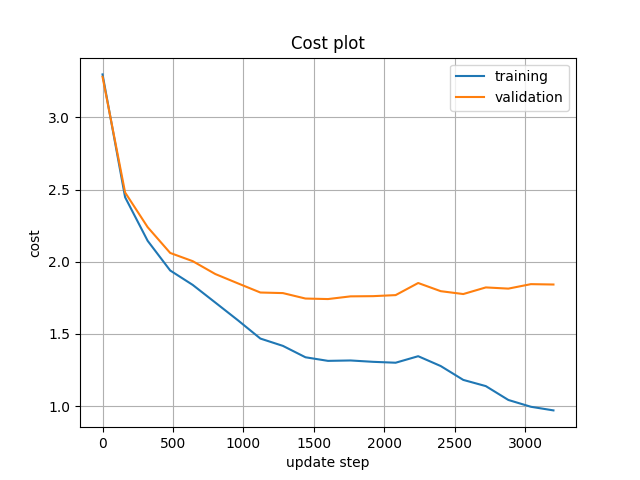
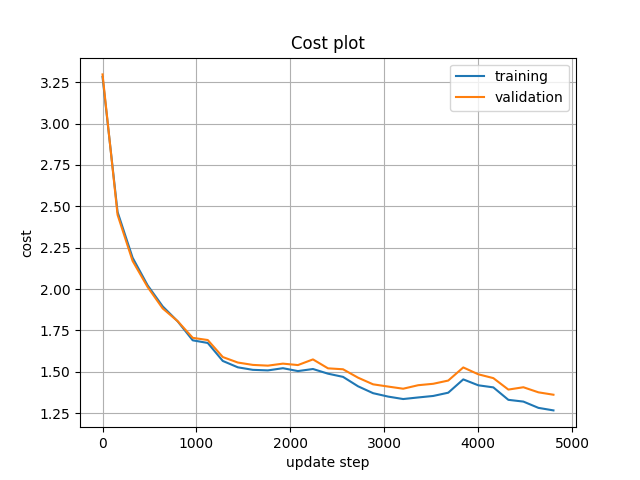
refactored main.py for different training runs

diff --git a/Assignment_3/main.py b/Assignment_3/main.py
@@ -7,6 +7,95 @@ from data_handling import *
 from convolution import *
 
 
+def Evaluate(trained_net, data, test_data):
+        P_train = ForwardConv(data['trainMX'], trained_net)['P']
+        train_acc = ComputeAccuracy(P_train, data['trainy'])
+
+        P_val = ForwardConv(data['validMX'], trained_net)['P']
+        val_acc = ComputeAccuracy(P_val, data['validy'])
+
+        P_test = ForwardConv(test_data['testMX'], trained_net)['P']
+        test_acc = ComputeAccuracy(P_test, test_data['testy'])
+
+        print(f"Training accuracy:   {100 * train_acc:.2f}%")
+        print(f"Validation accuracy: {100 * val_acc:.2f}%")
+        print(f"Test accuracy:       {100 * test_acc:.2f}%")
+
+
+def BuildAndStoreMX(data, test_data, f):
+        trainMX = MXFromX(data['trainX'], f)
+        #del trainX      # to free memory
+        validMX = MXFromX(data['validX'], f)
+        #del validX      # to free memory
+        testMX = MXFromX(test_data['testX'], f)
+        #del testX       # to free memory
+
+        SaveMX(trainMX, 'trainMX_' + str(n) + '.npy')
+        SaveMX(validMX, 'validMX_' + str(n) + '.npy')
+        SaveMX(testMX, 'testMX_' + str(n) + '.npy')
+
+        data['trainMX'] = trainMX
+        data['validMX'] = validMX
+        test_data['testMX'] = testMX
+
+        return data, test_data
+
+
+def Ex3InitialRun(data, test_data):
+        # Network shape 
+        f = 4
+        nf = 10 
+        nh = 50
+
+        # Build/store MX 
+        data, test_data = BuildAndStoreMX(data, test_data, f)
+
+        # Initialize net 
+        init_net = InitializeCNN(f, nf, nh, K, seed=42)
+
+
+        # ------------------ Train parameters ------------------------
+
+        lam = 0.003
+
+        eta_min = 1e-5
+        eta_max = 1e-1
+        n_s = 800
+        n_cycles = 3
+
+        GDparams = {'n_batch': 100, 'eta_min': eta_min, 'eta_max': eta_max,
+                'n_s': n_s, 'n_cycles': n_cycles}
+
+
+        # -------------- Train -----------------------------------------
+
+        t0 = time.perf_counter()
+
+        trained_net, history = MiniBatchGDConv(data, GDparams, init_net, lam, seed=42, n_rec=10)
+
+        train_time = time.perf_counter() - t0
+        print(f"Training time: {train_time:.2f} s")
+
+        # ---------------- Evaluate -----------------------
+
+        Evaluate(trained_net, data, test_data)
+
+
+        # ............ Plot performance -------------------
+
+        PlotPerformance(history['step'], history['train_cost'], history['val_cost'],
+                        title='Cost plot', ylabel='cost', file_name='ex3_cost')
+
+        PlotPerformance(history['step'], history['train_loss'], history['val_loss'],
+                        title='Loss plot', ylabel='loss', file_name='ex3_loss')
+
+        PlotPerformance(history['step'], history['train_acc'], history['val_acc'],
+                        title='Accuracy plot', ylabel='accuracy', file_name='ex3_acc')
+
+
+
+
+
 # ------- Load data ----------------------------------------------------
 
 cifar_dir = '../Datasets/cifar-10-batches-py/'
@@ -30,6 +119,8 @@ validX = X[:, :n_val]
 validY = Y[:, :n_val]
 validy = y[:n_val]
 
+del X, Y, y     # to free memory
+
 #"""
 
 # ---------
@@ -50,78 +141,12 @@ trainX = NormalizeData(trainX, mean_X, std_X)
 validX = NormalizeData(validX, mean_X, std_X)
 testX = NormalizeData(testX, mean_X, std_X)
 
+data = {'trainX': trainX, 'trainY': trainY, 'trainy': trainy,
+        'validX': validX, 'validY': validY, 'validy': validy}
 
-# ------------ Network shape --------------------
-
-f = 4
-nf = 10 
-nh = 50
+test_data = {'testX': testX, 'testY': testY, 'testy':testy}
 
 
-# ------------ Build/store MX -------------------
+# ------------------------ Runs -------------------
 
-trainMX = MXFromX(trainX, f)
-validMX = MXFromX(validX, f)
-testMX = MXFromX(testX, f)
-
-SaveMX(trainMX, 'trainMX_' + str(n) + '.npy')
-SaveMX(validMX, 'validMX_' + str(n) + '.npy')
-SaveMX(testMX, 'testMX_' + str(n) + '.npy')
-
-data = {'trainMX': trainMX, 'trainY': trainY, 'trainy': trainy,
-        'validMX': validMX, 'validY': validY, 'validy': validy}
-
-
-# -------------- Initialize Net -------------------
-
-init_net = InitializeCNN(f, nf, nh, K, seed=42)
-
-
-# ------------------ Train parameters ------------------------
-
-lam = 0.003
-
-eta_min = 1e-5
-eta_max = 1e-1
-n_s = 800
-n_cycles = 3
-
-GDparams = {'n_batch': 100, 'eta_min': eta_min, 'eta_max': eta_max,
-             'n_s': n_s, 'n_cycles': n_cycles}
-
-
-# -------------- Train -----------------------------------------
-
-t0 = time.perf_counter()
-
-trained_net, history = MiniBatchGDConv(data, GDparams, init_net, lam, seed=42, n_rec=10)
-
-train_time = time.perf_counter() - t0
-print(f"Training time: {train_time:.2f} s")
-
-# ---------------- Evaluate -----------------------
-
-P_train = ForwardConv(trainMX, trained_net)['P']
-train_acc = ComputeAccuracy(P_train, trainy)
-
-P_val = ForwardConv(validMX, trained_net)['P']
-val_acc = ComputeAccuracy(P_val, validy)
-
-P_test = ForwardConv(testMX, trained_net)['P']
-test_acc = ComputeAccuracy(P_test, testy)
-
-print(f"Training accuracy:   {100 * train_acc:.2f}%")
-print(f"Validation accuracy: {100 * val_acc:.2f}%")
-print(f"Test accuracy:       {100 * test_acc:.2f}%")
-
-
-# ............ Plot performance
-
-PlotPerformance(history['step'], history['train_cost'], history['val_cost'],
-                title='Cost plot', ylabel='cost', file_name='ex3_cost')
-
-PlotPerformance(history['step'], history['train_loss'], history['val_loss'],
-                title='Loss plot', ylabel='loss', file_name='ex3_loss')
-
-PlotPerformance(history['step'], history['train_acc'], history['val_acc'],
-                title='Accuracy plot', ylabel='accuracy', file_name='ex3_acc')
+Ex3InitialRun(data, test_data)
